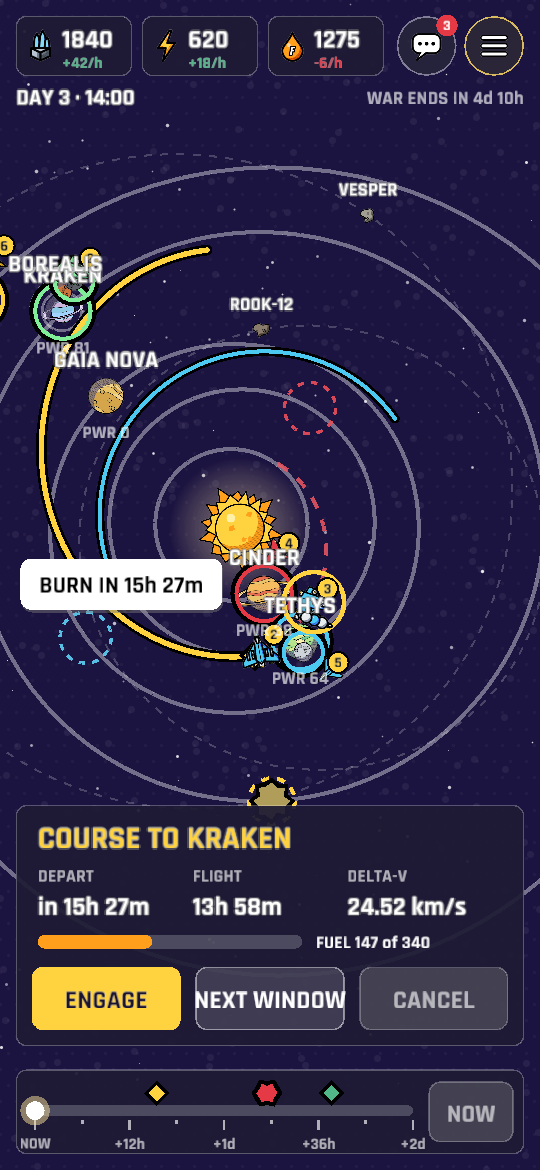
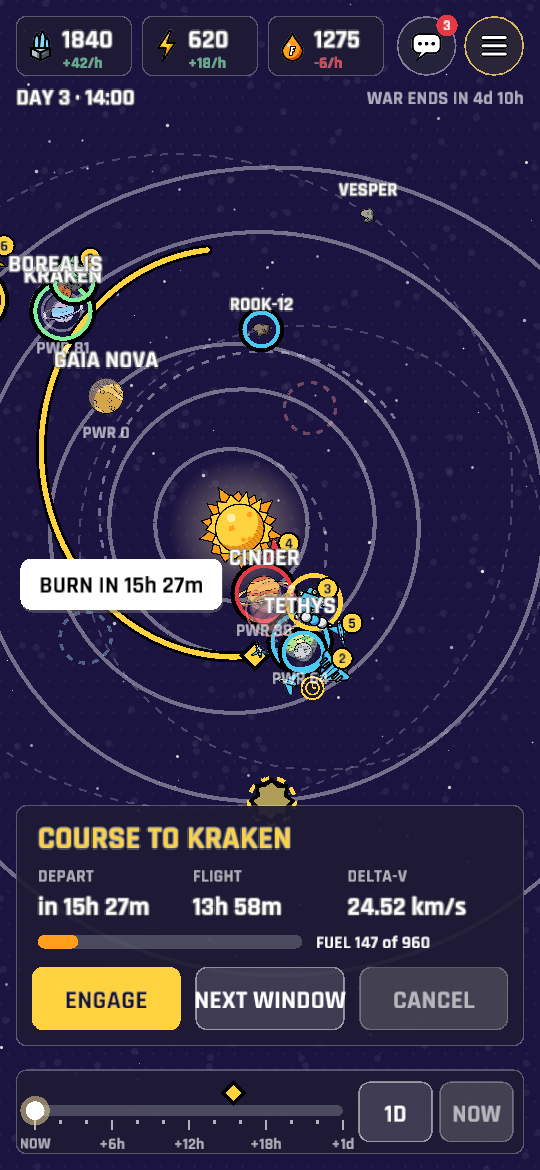
fleets: fix plan-sheet fuel check (fleet total vs one tank); client reports the server's own fuel verdict; tankers keep their capture fuel when pumping; tanker shortfalls count

diff --git a/crates/sim/src/fleet.rs b/crates/sim/src/fleet.rs
@@ -274,12 +274,14 @@ impl Game {
             }
             let cap = s.fuel_for_with(s.fuel - dep, capture_dv);
             let left = s.fuel - dep - cap;
-            if s.class == ShipClass::Tanker {
+            if s.class == ShipClass::Tanker && left >= 0.0 {
                 spare += (left - TANKER_RESERVE * s.stats().fuel_cap).max(0.0);
             } else if left < 0.0 {
-                deficit += -left;
-                if worst.as_ref().is_none_or(|w| -left > w.0) {
-                    worst = Some((-left, s.name.clone()));
+                // pumped fuel is itself extra mass to brake: each tonne received nets e^(-dv/ve)
+                let short = -left * (capture_dv / s.stats().ve).exp();
+                deficit += short;
+                if worst.as_ref().is_none_or(|w| short > w.0) {
+                    worst = Some((short, s.name.clone()));
                 }
             }
         }
@@ -288,6 +290,16 @@ impl Game {
             return Err(format!("not enough fuel: {name} is {short:.0} t short for the capture burn (fleet tankers can spare {spare:.0} t)"));
         }
         Ok(())
+    }
+
+    /// Fuel ship `i` (flying) needs for the capture burn at the end of its current course.
+    fn capture_fuel(&self, i: usize) -> f64 {
+        let s = &self.ships[i];
+        let ShipState::Flying(f) = &s.state else { return 0.0 };
+        match f.compute(&self.system).end {
+            crate::traj::End::Capture { body, rp, vp, .. } => s.fuel_for((vp - crate::kepler::circular_speed(self.system.body(body).mu, rp)).max(0.0)),
+            _ => 0.0,
+        }
     }
 
     /// Once a tick: forget dead ships, split off separated members, and let tankers in flying
@@ -326,9 +338,11 @@ impl Game {
                 .collect();
             let (tankers, others): (Vec<usize>, Vec<usize>) = members.iter().partition(|&&i| self.ships[i].class == ShipClass::Tanker);
             for &t in &tankers {
+                // a tanker keeps its reserve plus what it needs to brake at the destination
+                let keep = TANKER_RESERVE * self.ships[t].stats().fuel_cap + self.capture_fuel(t);
                 for &j in &others {
                     let room = self.ships[j].stats().fuel_cap - self.ships[j].fuel;
-                    let spare = (self.ships[t].fuel - TANKER_RESERVE * self.ships[t].stats().fuel_cap).max(0.0);
+                    let spare = (self.ships[t].fuel - keep).max(0.0);
                     let x = room.min(spare).min(PUMP_RATE * h).max(0.0);
                     self.ships[t].fuel -= x;
                     self.ships[j].fuel += x;
@@ -470,6 +484,37 @@ mod tests {
         g.advance_to(p.depart_t() + 3.0 * 3600.0);
         let after_burn = fuel - s.fuel_for_with(fuel, p.depart_dv);
         assert!(g.ship(gs).unwrap().fuel > after_burn + 100.0, "tanker pumped fuel in flight");
+    }
+
+    #[test]
+    fn tankers_keep_their_own_capture_fuel_when_pumping() {
+        let mut g = game();
+        let target = near_planet(&g);
+        let gs = mine(&g, ShipClass::Gunship)[0];
+        let tk = mine(&g, ShipClass::Tanker)[0];
+        form(&mut g, vec![gs, tk]);
+        g.apply(0, Command::Transfer { ships: vec![gs], to: target, depart_t: None }).unwrap();
+        // drain the gunship after departure so it pulls everything the tanker will give
+        let dep = match &g.ship(gs).unwrap().state {
+            ShipState::Parked { departure: Some(d), .. } => d.state.t,
+            _ => panic!(),
+        };
+        g.advance_to(dep + 120.0);
+        g.ship_mut(gs).unwrap().fuel = 0.0;
+        g.advance_to(dep + 6.0 * 86_400.0);
+        assert_eq!(g.ship(tk).unwrap().parked_at(), Some(target), "tanker kept enough to brake");
+    }
+
+    #[test]
+    fn a_tanker_short_of_capture_fuel_counts_as_short() {
+        let mut g = game();
+        let target = near_planet(&g);
+        let gs = mine(&g, ShipClass::Gunship)[0];
+        let tk = mine(&g, ShipClass::Tanker)[0];
+        let (p, _) = g.plan_for(&g.ship(tk).unwrap().clone(), target, None).unwrap();
+        let t = g.ship(tk).unwrap().clone();
+        g.ship_mut(tk).unwrap().fuel = t.fuel_for_with(0.0, p.depart_dv) * 1.3;
+        assert!(g.fleet_fuel_check(&[gs, tk], p.depart_dv, p.capture_dv).is_err());
     }
 
     #[test]

diff --git a/crates/client/src/backend.rs b/crates/client/src/backend.rs
@@ -421,9 +421,10 @@ fn compute_plan(g: &Game, now: f64, ship: ShipId, target: BodyId, after: f64) ->
     let first = p.to;
     let span = sim::plan::search_span(&g.system, from, first);
     let windows = sim::plan::windows(&g.system, from, first, now, span).into_iter().map(|w| w.depart_t).collect();
-    // fuel for every ship that flies (the whole fleet for a fleet token)
-    let fuel_needed: f64 = g
-        .with_fleetmates(s.id)
+    // fuel for every ship that flies (the whole fleet for a fleet token), judged like the server does
+    let flying = g.with_fleetmates(s.id);
+    let fuel_have: f64 = flying.iter().filter_map(|&id| g.ship(id)).map(|m| m.fuel).sum();
+    let fuel_needed: f64 = flying
         .iter()
         .filter_map(|&id| g.ship(id))
         .map(|m| {
@@ -439,6 +440,12 @@ fn compute_plan(g: &Game, now: f64, ship: ShipId, target: BodyId, after: f64) ->
         dv_depart: p.depart_dv,
         dv_capture: p.capture_dv,
         fuel_needed: fuel_needed as f32,
+        fuel_have: fuel_have as f32,
+        fuel_problem: if flying.len() > 1 {
+            g.fleet_fuel_check(&flying, p.depart_dv, p.capture_dv).err()
+        } else {
+            (fuel_needed > fuel_have).then(|| format!("not enough fuel: needs {fuel_needed:.0} t, has {fuel_have:.0} t"))
+        },
         path: to_model_traj(&g.system, &p.traj),
         windows,
     })
@@ -1339,6 +1346,16 @@ mod tests {
         assert!(v.ships.iter().all(|s| gs.iter().all(|g| g.0 != s.id)), "members aren't drawn on their own");
         assert_eq!(lead(&game, tok.id), gs[0]);
         assert_eq!(real_ships(&game, &[tok.id]), gs);
+        // the plan sheet compares the fleet's total need with the fleet's total fuel, and agrees
+        // with the server's verdict (it used to compare the sum against one ship's tank)
+        let home = game.players[0].home.unwrap();
+        let target = game.system.bodies.iter().find(|b| b.kind == SimKind::Planet && b.id != home && game.bodies[b.id.0 as usize].owner.is_none()).unwrap().id;
+        let plan = compute_plan(&game, game.t, tok.id, target.0, game.t).expect("fleet plan");
+        let total: f64 = gs.iter().map(|&id| game.ship(id).unwrap().fuel).sum();
+        assert!((plan.fuel_have as f64 - total).abs() < 1.0);
+        assert!(plan.fuel_needed > tok.fuel, "a fleet needs more than one tank");
+        let server = game.clone().apply(0, Command::Transfer { ships: vec![gs[0]], to: target, depart_t: Some(plan.depart_t) });
+        assert_eq!(plan.fuel_problem.is_none(), server.is_ok(), "{:?} vs {:?}", plan.fuel_problem, server);
         // other players see neither the fleet nor its name
         let bob = game.view_for(1);
         assert!(build_view(&bob, 1, game.t, &HashMap::new()).ships.iter().all(|s| !s.is_fleet()));

diff --git a/crates/ui/src/game/panels.rs b/crates/ui/src/game/panels.rs
@@ -922,7 +922,7 @@ fn ship_sheet(g: &mut GameScreen, inp: &mut Input, view: &GameView, sh: &Ship, t
 }
 
 fn plan_sheet(g: &mut GameScreen, inp: &mut Input, be: &dyn Backend, view: &GameView, p: &TransferPlan) {
-    let r = sheet_rect(178.0);
+    let r = sheet_rect(if p.fuel_problem.is_some() { 198.0 } else { 178.0 });
     inp.block(r);
     cel::panel(r, PANEL);
     let target = view.body(p.target).map(|b| b.name.to_uppercase()).unwrap_or_default();
@@ -938,12 +938,20 @@ fn plan_sheet(g: &mut GameScreen, inp: &mut Input, be: &dyn Backend, view: &Game
         text(k, x, r.y + 52.0 * s(), 13.0, MUTED, FontKind::Title, Align::Left);
         inked(v, x, r.y + 74.0 * s(), 19.0, PAPER, Align::Left);
     }
-    let fuel = view.ship(p.ship).map(|s| s.fuel).unwrap_or(0.0);
-    let ok = fuel >= p.fuel_needed;
+    let fuel = p.fuel_have;
+    let ok = p.fuel_problem.is_none();
     let fr = Rect::new(r.x + 16.0 * s(), r.y + 96.0 * s(), r.w - 180.0 * s(), 10.0 * s());
     widgets::bar(fr, p.fuel_needed / fuel.max(1.0), if ok { SUN_SHADE } else { DANGER });
     let fl = if ok { format!("FUEL {:.0} of {:.0}", p.fuel_needed, fuel) } else { format!("NEED {:.0} FUEL, HAVE {:.0}", p.fuel_needed, fuel) };
     text(&fl, fr.x + fr.w + 10.0 * s(), fr.center().y, 13.0, if ok { PAPER } else { DANGER }, FontKind::Title, Align::Left);
+    if let Some(why) = &p.fuel_problem {
+        let why = why.strip_prefix("not enough fuel: ").unwrap_or(why);
+        let mut why: String = why.chars().take(70).collect();
+        if let Some(c) = why.get_mut(0..1) {
+            c.make_ascii_uppercase();
+        }
+        text(&why, fr.x, fr.y + 26.0 * s(), 13.0, DANGER, FontKind::Body, Align::Left);
+    }
 
     let by = r.y + r.h - 58.0 * s();
     let bw = (r.w - 4.0 * 12.0 * s()) / 3.0;

diff --git a/crates/ui/src/demo.rs b/crates/ui/src/demo.rs
@@ -301,7 +301,7 @@ impl DemoBackend {
                     })
                     .collect(),
             };
-            return Some(TransferPlan { ship: s.id, target, depart_t, arrive_t, dv_depart: 0.4, dv_capture: 0.2, fuel_needed: 12.0, path, windows: vec![depart_t] });
+            return Some(TransferPlan { ship: s.id, target, depart_t, arrive_t, dv_depart: 0.4, dv_capture: 0.2, fuel_needed: 12.0, fuel_have: 0.0, fuel_problem: None, path, windows: vec![depart_t] });
         }
         let at = (r1 + r2) / 2.0;
         let tof = PI * (at.powi(3) / MU).sqrt();
@@ -356,6 +356,8 @@ impl DemoBackend {
         let va = (MU * (2.0 / r2 - 1.0 / at)).sqrt();
         let dv1 = (vp - v1).abs();
         let dv2 = (v2 - va).abs();
+        let need = ((dv1 + dv2) * 2.0) as f32 * s.count as f32;
+        let have = if s.is_fleet() { s.members.iter().map(|m| m.fuel).sum() } else { s.fuel * s.count as f32 };
         Some(TransferPlan {
             ship: s.id,
             target,
@@ -363,7 +365,9 @@ impl DemoBackend {
             arrive_t: depart_t + tof,
             dv_depart: dv1,
             dv_capture: dv2,
-            fuel_needed: ((dv1 + dv2) * 2.0) as f32 * s.count as f32,
+            fuel_needed: need,
+            fuel_have: have,
+            fuel_problem: (need > have).then(|| format!("not enough fuel: needs {need:.0} t, has {have:.0} t")),
             path: Trajectory { points },
             windows,
         })

diff --git a/crates/ui/src/model.rs b/crates/ui/src/model.rs
@@ -309,7 +309,13 @@ pub struct TransferPlan {
     pub arrive_t: f64,
     pub dv_depart: f64,
     pub dv_capture: f64,
+    /// Fuel every ship that flies needs (the whole fleet for a fleet token).
     pub fuel_needed: f32,
+    /// Fuel those ships carry between them.
+    pub fuel_have: f32,
+    /// Why the fuel doesn't work out (None = it does). For fleets this is the sim's own rule: every
+    /// ship pays its departure, the weakest decides, fleet tankers can cover capture burns.
+    pub fuel_problem: Option<String>,
     pub path: Trajectory,
     /// Upcoming good departure times (seconds), best first is not required.
     pub windows: Vec<f64>,
